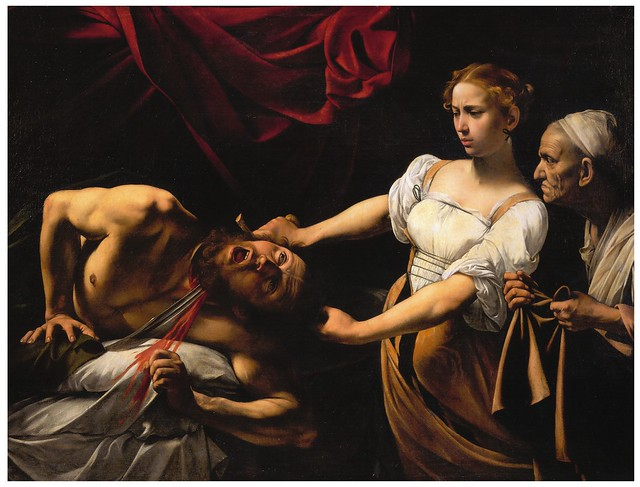
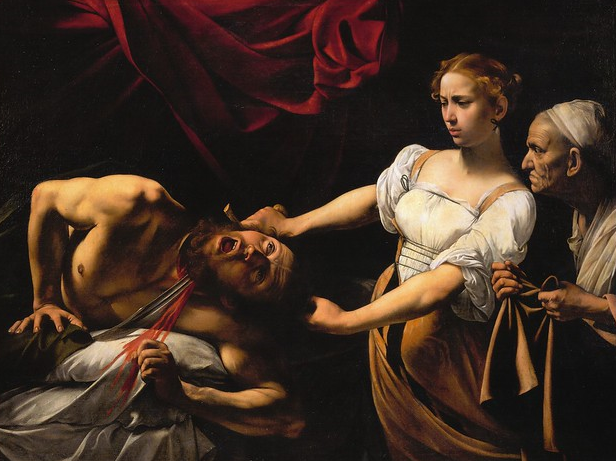
update

diff --git a/museo_virtuale/caravaggio.html b/museo_virtuale/caravaggio.html
@@ -12,14 +12,15 @@
     <center>
         <header>
             <section>
-            <a href="home.html"><h1>Homepage</h1></a>
+            <a href="home.html"><h1>Piccolo museo virtuale
+            </h1></a>
             </section>
         </header>
 
         <main>
             <h2>Caravaggio</h2>
             <p>Pochi artisti hanno suscitato tanto interesse e hanno rivoluzionato così profondamente la storia dell'arte come il pittore lombardo Caravaggio, vissuto nella seconda metà del Cinquecento. La sua vita travagliata, segnata da un delitto, una fuga disperata e un perdono giunto assieme alla morte, ha contribuito a creare il mito di Caravaggio, genio solitario e malvisto dalla Chiesa di Roma. Oltre la leggenda, la straordinaria novità dell'opera di questo grande protagonista, che aveva protettori illustri, risiede in due fattori di modernità assoluta: la resa della realtà in ogni forma anche brutale e la presenza della luce come apparizione simbolica di verità divina.</p>
-            <img src="img/medusa.jpg">
+            <img src="img/medusa.png">
             <img src="img/davide.jpg">
             <img src="img/sangiovanni.jpg">
             <img src="img/vergine.jpg">
@@ -28,9 +29,10 @@
             <a href="home.html"><p>Homepage</p></a>
         </main>
     
-    </center>
 
 <footer>
     <p> Guglielmo De Luca - 13/03/2024</p>
     </footer>
 </body>
+    </center>
+</html>

diff --git a/museo_virtuale/stile.css b/museo_virtuale/stile.css
@@ -1,8 +1,18 @@
-h1{font-family: 'Franklin Gothic Medium', 'Arial Narrow', Arial, sans-serif; font-size: 32px;}
-h2{font-family: 'Franklin Gothic Medium', 'Arial Narrow', Arial, sans-serif; font-size: 22px;}
-p{font-family: Arial, Helvetica, sans-serif; font-size: 16;}
-a{color: rgb(142, 114, 219);}
+h1{font-family: Arial, Verdana, sans-serif; font-size: 32px;}
+h2{font-family: Arial, Verdana, sans-serif; font-size: 22px;}
+p{font-family: Arial, Verdana, sans-serif; font-size: 16;}
+
+a{color: rgb(36, 53, 84);}
 a:hover{color:rgb(36, 95, 101);}
-header{background-color: rgb(191, 221, 221);}
+
+header{color:rgb(36, 53, 84);;}
 main{background-color: rgb(133, 155, 155);}
-content{background-color: rgb(146, 195, 168);}
+body{background-color: rgb(133, 155, 155);}
+content{background-color: rgb(70, 207, 132);}
+
+img{height: 400px;
+    margin: 10px;
+    padding: 3px;
+    border:3px solid rgb(182, 206, 214); padding:0px; margin:5px}
+
+    

diff --git a/museo_virtuale/goya.html b/museo_virtuale/goya.html
@@ -12,7 +12,7 @@
     <center>
         <header>
             <section>
-            <a href="home.html"><h1>Homepage</h1></a>
+            <a href="home.html"><h1>Piccolo museo virtuale</h1></a>
             </section>
         </header>
 <main>
@@ -22,13 +22,14 @@
         <img src="img/famiglia.jpg">
         <img src="img/3maggio.jpg">
         <img src="img/volo.jpg">
-        <img src="img/sonno">
+        <img src="img/sonno.jpg">
         <img src="img/saturno.png">
         <a href="home.html"><p>Homepage</p></a>
     </main>
-    </center>
 
 <footer>
     <p> Guglielmo De Luca - 13/03/2024</p>
     </footer>
 </body>
+    </center>
+</html>

diff --git a/museo_virtuale/Füssli.html b/museo_virtuale/Füssli.html
@@ -12,7 +12,7 @@
     <center>
         <header>
             <section>
-            <a href="home.html"><h1>Homepage</h1></a>
+            <a href="home.html"><h1>Piccolo museo virtuale</h1></a>
             </section>
         </header>
         <main>
@@ -28,8 +28,10 @@
             <img src="img/sogno.jpg">
             <a href="home.html"><p>Homepage</p></a>
         </main>
-    </center>
+    
 <footer>
     <p> Guglielmo De Luca - 13/03/2024</p>
     </footer>
 </body>
+</center>
+</html>

diff --git a/museo_virtuale/home.html b/museo_virtuale/home.html
@@ -12,7 +12,7 @@
     <center>
     <header>
         <section>
-        <h1>Museo</h1>
+        <h1>Piccolo museo virtuale</h1>
         </section>
     </header>
     <main>
@@ -20,9 +20,11 @@
         <a href="goya.html"><img src="img/WitchesSabbath.jpg"br></a>
         <a href="Füssli.html"><img src="img/TheNightmare.webp"br></a>
     </main>
-    </center>
+    
 
 <footer>
     <p> Guglielmo De Luca - 13/03/2024</p>
     </footer>
 </body>
+    </center>
+</html>
